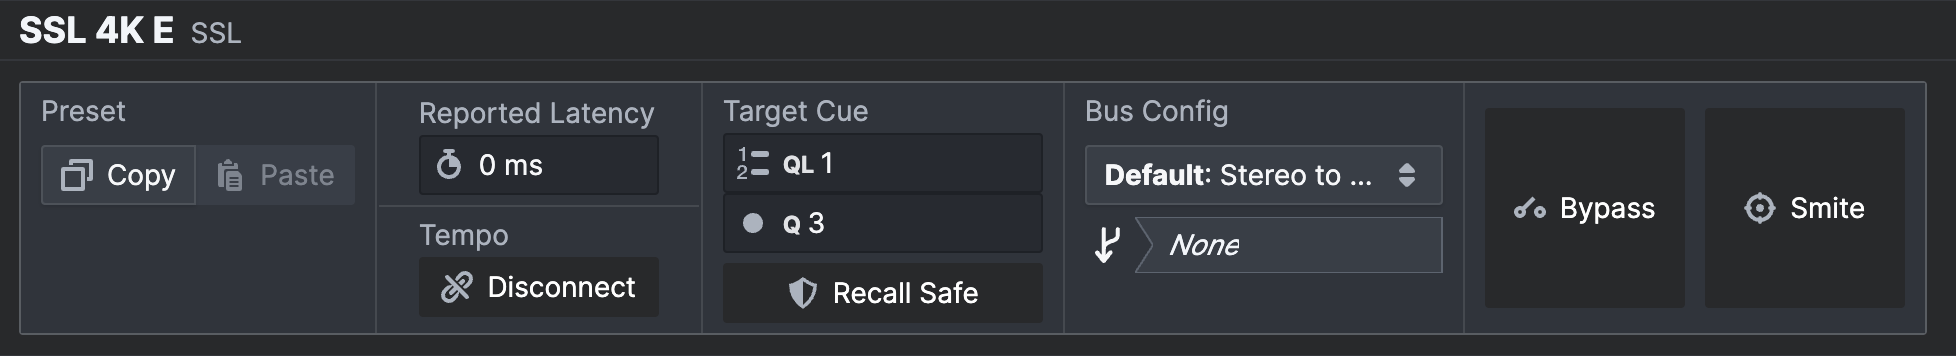
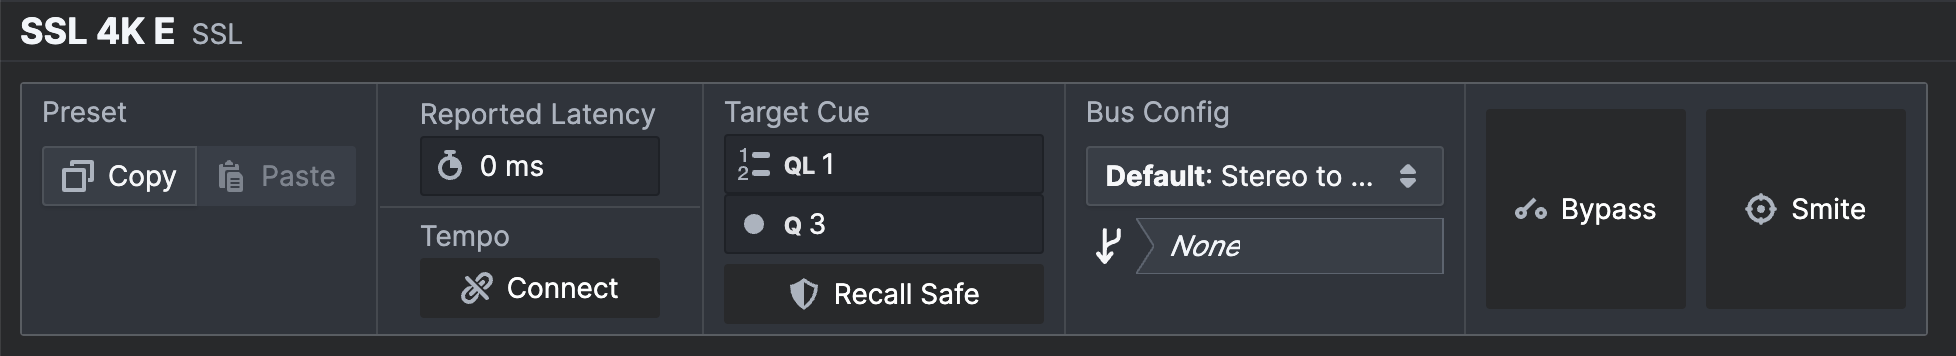
V1.5 adjustments (#59)
* Tap tempo page

* Update tap-tempo.md

diff --git a/versioned_docs/version-1.5.0/transform.client/home/tap-tempo.md b/versioned_docs/version-1.5.0/transform.client/home/tap-tempo.md
@@ -1,0 +1,26 @@
+---
+sidebar_position: 15
+---
+
+import taptempo from '/static/img/transformclient/v1.5/tap-tempo-menu.png';
+import detailpane from '/static/img/transformclient/v1.5/plugin-instance-detail-pane.png';
+
+# Tap Tempo
+
+:::tip
+By default, your plugin is disconnected from the global tap tempo, use the **Connect** button in the plugin detail pane to connect your plugin to the global tap tempo.
+
+<img src={detailpane} alt="Plugin Detail Pane" width="800" />
+:::
+
+For tap tempo, you can use the conveniently named 'Tap' button in the top bar! (Who'd have **thunk** it?). 
+
+<img src={taptempo} alt="Tap Tempo Menu" width="500" /> 
+
+Alternatively you can click the numerical value and type in your **favourite** BPM/ whatever BPM the drummer is going for today, or use the space bar on your keyboard to *tappy tap tap* your beat in.
+
+For more information about Recall Tempo Filters, click [here](../cuelists/filters.md)!
+
+:::info
+Shhhh, you found the secret prize, click [here](https://www.youtube.com/watch?v=dQw4w9WgXcQ&list=RDdQw4w9WgXcQ&start_radio=1) to redeem! 
+
